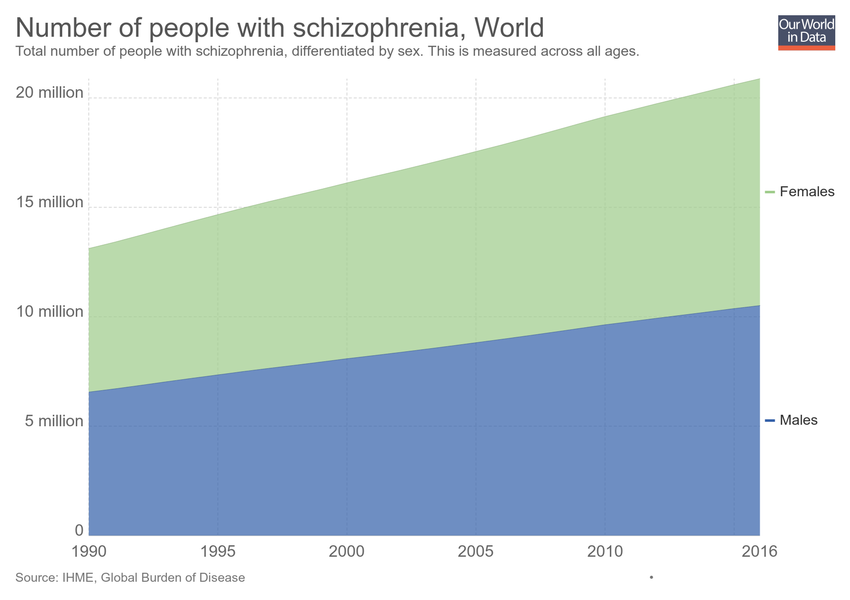
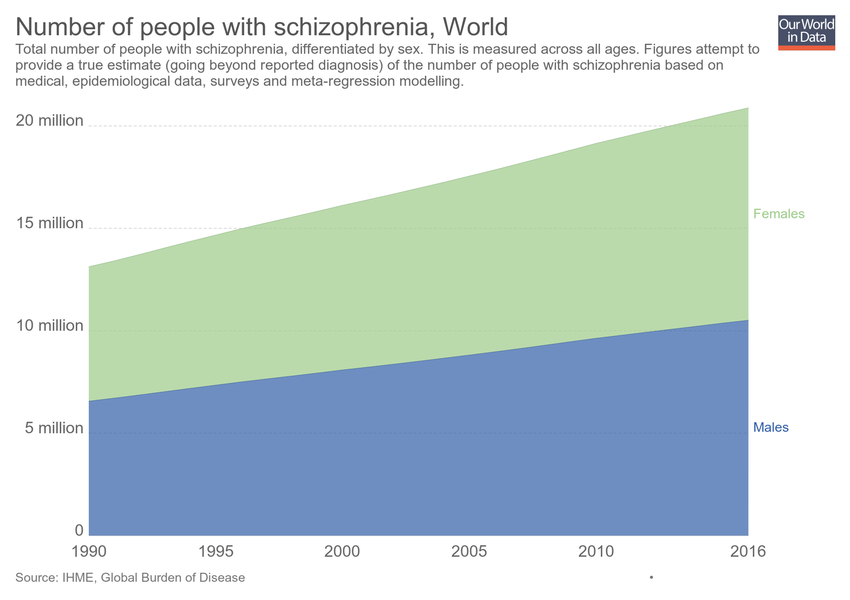
Updating chart number-with-schizophrenia

diff --git a/grapher/rate-of-internationally-observed-elections.html b/grapher/rate-of-internationally-observed-elections.html
@@ -1,4 +1,4 @@
-<!doctype html><html><head><meta name="viewport" content="width=device-width, initial-scale=1" /><title>Internationally observed elections by Western monitors - Our World in Data</title><meta name="description" content="Estimates correspond to the number of international elections that were either observed and criticized by Western monitors, observed and not criticized by Western monitors, or elections that were not observed by Western monitors. Criticism refers to allegations of significant vote-fraud." /><link rel="canonical" href="https://ourworldindata.org/grapher/rate-of-internationally-observed-elections" /><meta property="fb:app_id" content="1149943818390250" /><meta property="og:url" content="https://ourworldindata.org/grapher/rate-of-internationally-observed-elections" /><meta property="og:title" content="Internationally observed elections by Western monitors" /><meta property="og:description" content="Estimates correspond to the number of international elections that were either observed and criticized by Western monitors, observed and not criticized by Western monitors, or elections that were not observed by Western monitors. Criticism refers to allegations of significant vote-fraud." /><meta property="og:image" content="https://ourworldindata.org/grapher/exports/rate-of-internationally-observed-elections.png?v=9" /><meta property="og:image:width" content="850" /><meta property="og:image:height" content="600" /><meta property="og:site_name" content="Our World in Data" /><meta name="twitter:card" content="summary_large_image" /><meta name="twitter:site" content="@OurWorldInData" /><meta name="twitter:creator" content="@OurWorldInData" /><meta name="twitter:title" content="Internationally observed elections by Western monitors" /><meta name="twitter:description" content="Estimates correspond to the number of international elections that were either observed and criticized by Western monitors, observed and not criticized by Western monitors, or elections that were not observed by Western monitors. Criticism refers to allegations of significant vote-fraud." /><meta name="twitter:image" content="https://ourworldindata.org/grapher/exports/rate-of-internationally-observed-elections.png?v=9" /><style>
+<!doctype html><html><head><meta name="viewport" content="width=device-width, initial-scale=1" /><title>Internationally observed elections (%) - Our World in Data</title><meta name="description" content="Percentage of internationally observed elections and whether they were criticized by international observers. Figures cover 1,754 election events in 157 independent states, excluding those with population less than 250,000." /><link rel="canonical" href="https://ourworldindata.org/grapher/rate-of-internationally-observed-elections" /><meta property="fb:app_id" content="1149943818390250" /><meta property="og:url" content="https://ourworldindata.org/grapher/rate-of-internationally-observed-elections" /><meta property="og:title" content="Internationally observed elections (%)" /><meta property="og:description" content="Percentage of internationally observed elections and whether they were criticized by international observers. Figures cover 1,754 election events in 157 independent states, excluding those with population less than 250,000." /><meta property="og:image" content="https://ourworldindata.org/grapher/exports/rate-of-internationally-observed-elections.png?v=16" /><meta property="og:image:width" content="850" /><meta property="og:image:height" content="600" /><meta property="og:site_name" content="Our World in Data" /><meta name="twitter:card" content="summary_large_image" /><meta name="twitter:site" content="@OurWorldInData" /><meta name="twitter:creator" content="@OurWorldInData" /><meta name="twitter:title" content="Internationally observed elections (%)" /><meta name="twitter:description" content="Percentage of internationally observed elections and whether they were criticized by international observers. Figures cover 1,754 election events in 157 independent states, excluding those with population less than 250,000." /><meta name="twitter:image" content="https://ourworldindata.org/grapher/exports/rate-of-internationally-observed-elections.png?v=16" /><style>
         html, body {
             height: 100%;
             margin: 0;
@@ -20,8 +20,8 @@
         }
     </style><noscript><style>
                     figure { display: none !important; }
-                </style></noscript><link rel="stylesheet" href="https://ourworldindata.org/grapher/assets/commons.bundle.ac09ff8f098f0c7be836.css" /><link rel="preload" href="/grapher/data/variables/97399+97400+97401.json?v=9" as="fetch" crossorigin /></head><body class="singleChart"><figure data-grapher-src="/grapher/rate-of-internationally-observed-elections"></figure><noscript id="fallback"><img src="/grapher/exports/rate-of-internationally-observed-elections.svg" /><p>Interactive visualization requires JavaScript</p></noscript><script src="https://cdn.polyfill.io/v2/polyfill.min.js?features=es6,fetch"></script><script src="https://ourworldindata.org/grapher/assets/commons.bundle.ac09ff8f098f0c7be836.js"></script><script src="https://ourworldindata.org/grapher/assets/charts.bundle.dcf65b68eddaba4c6a58.js"></script><script>
-        var jsonConfig = {"id":2598,"map":{"projection":"World","colorSchemeLabels":[],"colorSchemeValues":[],"customNumericColors":[],"customCategoryColors":{},"customCategoryLabels":{},"customHiddenCategories":{}},"tab":"chart","note":"Includes 2435 election events in 162 countries","slug":"rate-of-internationally-observed-elections","type":"StackedArea","title":"Internationally observed elections by Western monitors","xAxis":{"scaleType":"linear"},"yAxis":{"min":0,"scaleType":"linear"},"version":9,"subtitle":"Estimates correspond to the number of international elections that were either observed and criticized by Western monitors, observed and not criticized by Western monitors, or elections that were not observed by Western monitors. Criticism refers to allegations of significant vote-fraud.","hasMapTab":false,"stackMode":"relative","dimensions":[{"display":{"name":"Elections not observed","unit":"elections","shortUnit":""},"property":"y","variableId":97399},{"display":{"name":"Elections observed and criticized"},"property":"y","variableId":97400},{"display":{"name":"Elections observed and not critcized"},"property":"y","variableId":97401}],"hasChartTab":true,"isPublished":true,"selectedData":[{"index":0,"entityId":355},{"index":2,"entityId":355},{"index":1,"entityId":355}],"addCountryMode":"change-country","baseColorScheme":"owid-distinct","invertColorScheme":true,"hideTitleAnnotation":true};
+                </style></noscript><link rel="stylesheet" href="https://ourworldindata.org/grapher/assets/commons.bundle.ac09ff8f098f0c7be836.css" /><link rel="preload" href="/grapher/data/variables/97378+97379.json?v=16" as="fetch" crossorigin /></head><body class="singleChart"><figure data-grapher-src="/grapher/rate-of-internationally-observed-elections"></figure><noscript id="fallback"><img src="/grapher/exports/rate-of-internationally-observed-elections.svg" /><p>Interactive visualization requires JavaScript</p></noscript><script src="https://cdn.polyfill.io/v2/polyfill.min.js?features=es6,fetch"></script><script src="https://ourworldindata.org/grapher/assets/commons.bundle.ac09ff8f098f0c7be836.js"></script><script src="https://ourworldindata.org/grapher/assets/charts.bundle.dcf65b68eddaba4c6a58.js"></script><script>
+        var jsonConfig = {"id":2589,"map":{"projection":"World","colorSchemeLabels":[],"colorSchemeValues":[],"colorSchemeMinValue":0,"customNumericColors":[],"customCategoryColors":{},"customCategoryLabels":{},"customHiddenCategories":{}},"tab":"chart","slug":"rate-of-internationally-observed-elections","type":"StackedArea","title":"Internationally observed elections (%)","xAxis":{"scaleType":"linear"},"yAxis":{"max":80,"min":0,"scaleType":"linear"},"version":16,"subtitle":"Percentage of internationally observed elections and whether they were criticized by international observers. Figures cover 1,754 election events in 157 independent states, excluding those with population less than 250,000.","hasMapTab":false,"stackMode":"absolute","dimensions":[{"display":{"name":"Percent of elections observed and criticised","unit":"%"},"property":"y","variableId":97378},{"display":{"name":"Percent of elections observed and not criticised"},"property":"y","variableId":97379}],"hasChartTab":true,"isPublished":true,"selectedData":[{"index":0,"entityId":355},{"index":1,"entityId":355}],"addCountryMode":"change-country","baseColorScheme":"Plasma","hideRelativeToggle":true,"hideTitleAnnotation":true};
         var figure = document.getElementsByTagName("figure")[0];
         try {
             window.App = {};

diff --git a/grapher/number-of-people-with-schizophrenia-country.html b/grapher/number-of-people-with-schizophrenia-country.html
@@ -1,4 +1,4 @@
-<!doctype html><html><head><meta name="viewport" content="width=device-width, initial-scale=1" /><title>Number of people with schizophrenia - Our World in Data</title><meta name="description" content="Total number of people suffering from schizophrenia. This is measured across both sexes and all ages." /><link rel="canonical" href="https://ourworldindata.org/grapher/number-of-people-with-schizophrenia-country" /><meta property="fb:app_id" content="1149943818390250" /><meta property="og:url" content="https://ourworldindata.org/grapher/number-of-people-with-schizophrenia-country" /><meta property="og:title" content="Number of people with schizophrenia" /><meta property="og:description" content="Total number of people suffering from schizophrenia. This is measured across both sexes and all ages." /><meta property="og:image" content="https://ourworldindata.org/grapher/exports/number-of-people-with-schizophrenia-country.png?v=2" /><meta property="og:image:width" content="850" /><meta property="og:image:height" content="600" /><meta property="og:site_name" content="Our World in Data" /><meta name="twitter:card" content="summary_large_image" /><meta name="twitter:site" content="@OurWorldInData" /><meta name="twitter:creator" content="@OurWorldInData" /><meta name="twitter:title" content="Number of people with schizophrenia" /><meta name="twitter:description" content="Total number of people suffering from schizophrenia. This is measured across both sexes and all ages." /><meta name="twitter:image" content="https://ourworldindata.org/grapher/exports/number-of-people-with-schizophrenia-country.png?v=2" /><style>
+<!doctype html><html><head><meta name="viewport" content="width=device-width, initial-scale=1" /><title>Number of people with schizophrenia - Our World in Data</title><meta name="description" content="Total number of people suffering from schizophrenia. This is measured across both sexes and all ages. Figures attempt to provide a true estimate (going beyond reported diagnosis) of the number of people with schizophrenia based on medical, epidemiological data, surveys and meta-regression modelling." /><link rel="canonical" href="https://ourworldindata.org/grapher/number-of-people-with-schizophrenia-country" /><meta property="fb:app_id" content="1149943818390250" /><meta property="og:url" content="https://ourworldindata.org/grapher/number-of-people-with-schizophrenia-country" /><meta property="og:title" content="Number of people with schizophrenia" /><meta property="og:description" content="Total number of people suffering from schizophrenia. This is measured across both sexes and all ages. Figures attempt to provide a true estimate (going beyond reported diagnosis) of the number of people with schizophrenia based on medical, epidemiological data, surveys and meta-regression modelling." /><meta property="og:image" content="https://ourworldindata.org/grapher/exports/number-of-people-with-schizophrenia-country.png?v=3" /><meta property="og:image:width" content="850" /><meta property="og:image:height" content="600" /><meta property="og:site_name" content="Our World in Data" /><meta name="twitter:card" content="summary_large_image" /><meta name="twitter:site" content="@OurWorldInData" /><meta name="twitter:creator" content="@OurWorldInData" /><meta name="twitter:title" content="Number of people with schizophrenia" /><meta name="twitter:description" content="Total number of people suffering from schizophrenia. This is measured across both sexes and all ages. Figures attempt to provide a true estimate (going beyond reported diagnosis) of the number of people with schizophrenia based on medical, epidemiological data, surveys and meta-regression modelling." /><meta name="twitter:image" content="https://ourworldindata.org/grapher/exports/number-of-people-with-schizophrenia-country.png?v=3" /><style>
         html, body {
             height: 100%;
             margin: 0;
@@ -20,8 +20,8 @@
         }
     </style><noscript><style>
                     figure { display: none !important; }
-                </style></noscript><link rel="stylesheet" href="https://ourworldindata.org/grapher/assets/commons.bundle.ac09ff8f098f0c7be836.css" /><link rel="preload" href="/grapher/data/variables/85282.json?v=2" as="fetch" crossorigin /></head><body class="singleChart"><figure data-grapher-src="/grapher/number-of-people-with-schizophrenia-country"></figure><noscript id="fallback"><img src="/grapher/exports/number-of-people-with-schizophrenia-country.svg" /><p>Interactive visualization requires JavaScript</p></noscript><script src="https://cdn.polyfill.io/v2/polyfill.min.js?features=es6,fetch"></script><script src="https://ourworldindata.org/grapher/assets/commons.bundle.ac09ff8f098f0c7be836.js"></script><script src="https://ourworldindata.org/grapher/assets/charts.bundle.dcf65b68eddaba4c6a58.js"></script><script>
-        var jsonConfig = {"id":2193,"map":{"projection":"World","targetYear":2016,"variableId":85282,"equalSizeBins":true,"baseColorScheme":"YlGnBu","isManualBuckets":true,"colorSchemeLabels":[],"colorSchemeValues":[10000,50000,100000,500000,1000000,5000000],"colorSchemeMinValue":0,"customNumericColors":[],"customCategoryColors":{},"customCategoryLabels":{},"customHiddenCategories":{}},"tab":"map","slug":"number-of-people-with-schizophrenia-country","type":"LineChart","title":"Number of people with schizophrenia","xAxis":{"scaleType":"linear"},"yAxis":{"min":0,"scaleType":"linear"},"version":2,"subtitle":"Total number of people suffering from schizophrenia. This is measured across both sexes and all ages.","hasMapTab":true,"stackMode":"absolute","dimensions":[{"display":{"unit":"number of people","numDecimalPlaces":0},"property":"y","variableId":85282}],"sourceDesc":"IHME, Global Burden of Disease","hasChartTab":true,"isPublished":true,"selectedData":[{"index":0,"entityId":92},{"index":0,"entityId":207},{"index":0,"entityId":174},{"index":0,"entityId":15},{"index":0,"entityId":164},{"index":0,"entityId":162},{"index":0,"entityId":161},{"index":0,"entityId":148}],"addCountryMode":"add-country"};
+                </style></noscript><link rel="stylesheet" href="https://ourworldindata.org/grapher/assets/commons.bundle.ac09ff8f098f0c7be836.css" /><link rel="preload" href="/grapher/data/variables/85282.json?v=3" as="fetch" crossorigin /></head><body class="singleChart"><figure data-grapher-src="/grapher/number-of-people-with-schizophrenia-country"></figure><noscript id="fallback"><img src="/grapher/exports/number-of-people-with-schizophrenia-country.svg" /><p>Interactive visualization requires JavaScript</p></noscript><script src="https://cdn.polyfill.io/v2/polyfill.min.js?features=es6,fetch"></script><script src="https://ourworldindata.org/grapher/assets/commons.bundle.ac09ff8f098f0c7be836.js"></script><script src="https://ourworldindata.org/grapher/assets/charts.bundle.dcf65b68eddaba4c6a58.js"></script><script>
+        var jsonConfig = {"id":2193,"map":{"projection":"World","targetYear":2016,"variableId":85282,"equalSizeBins":true,"baseColorScheme":"YlGnBu","isManualBuckets":true,"colorSchemeLabels":[],"colorSchemeValues":[10000,50000,100000,500000,1000000,5000000],"colorSchemeMinValue":0,"customNumericColors":[],"customCategoryColors":{},"customCategoryLabels":{},"customHiddenCategories":{}},"tab":"map","slug":"number-of-people-with-schizophrenia-country","type":"LineChart","title":"Number of people with schizophrenia","xAxis":{"scaleType":"linear"},"yAxis":{"min":0,"scaleType":"linear"},"version":3,"subtitle":"Total number of people suffering from schizophrenia. This is measured across both sexes and all ages. Figures attempt to provide a true estimate (going beyond reported diagnosis) of the number of people with schizophrenia based on medical, epidemiological data, surveys and meta-regression modelling.","hasMapTab":true,"stackMode":"absolute","dimensions":[{"display":{"unit":"number of people","numDecimalPlaces":0},"property":"y","variableId":85282}],"sourceDesc":"IHME, Global Burden of Disease","hasChartTab":true,"isPublished":true,"selectedData":[{"index":0,"entityId":92},{"index":0,"entityId":207},{"index":0,"entityId":174},{"index":0,"entityId":15},{"index":0,"entityId":164},{"index":0,"entityId":162},{"index":0,"entityId":161},{"index":0,"entityId":148}],"addCountryMode":"add-country"};
         var figure = document.getElementsByTagName("figure")[0];
         try {
             window.App = {};
